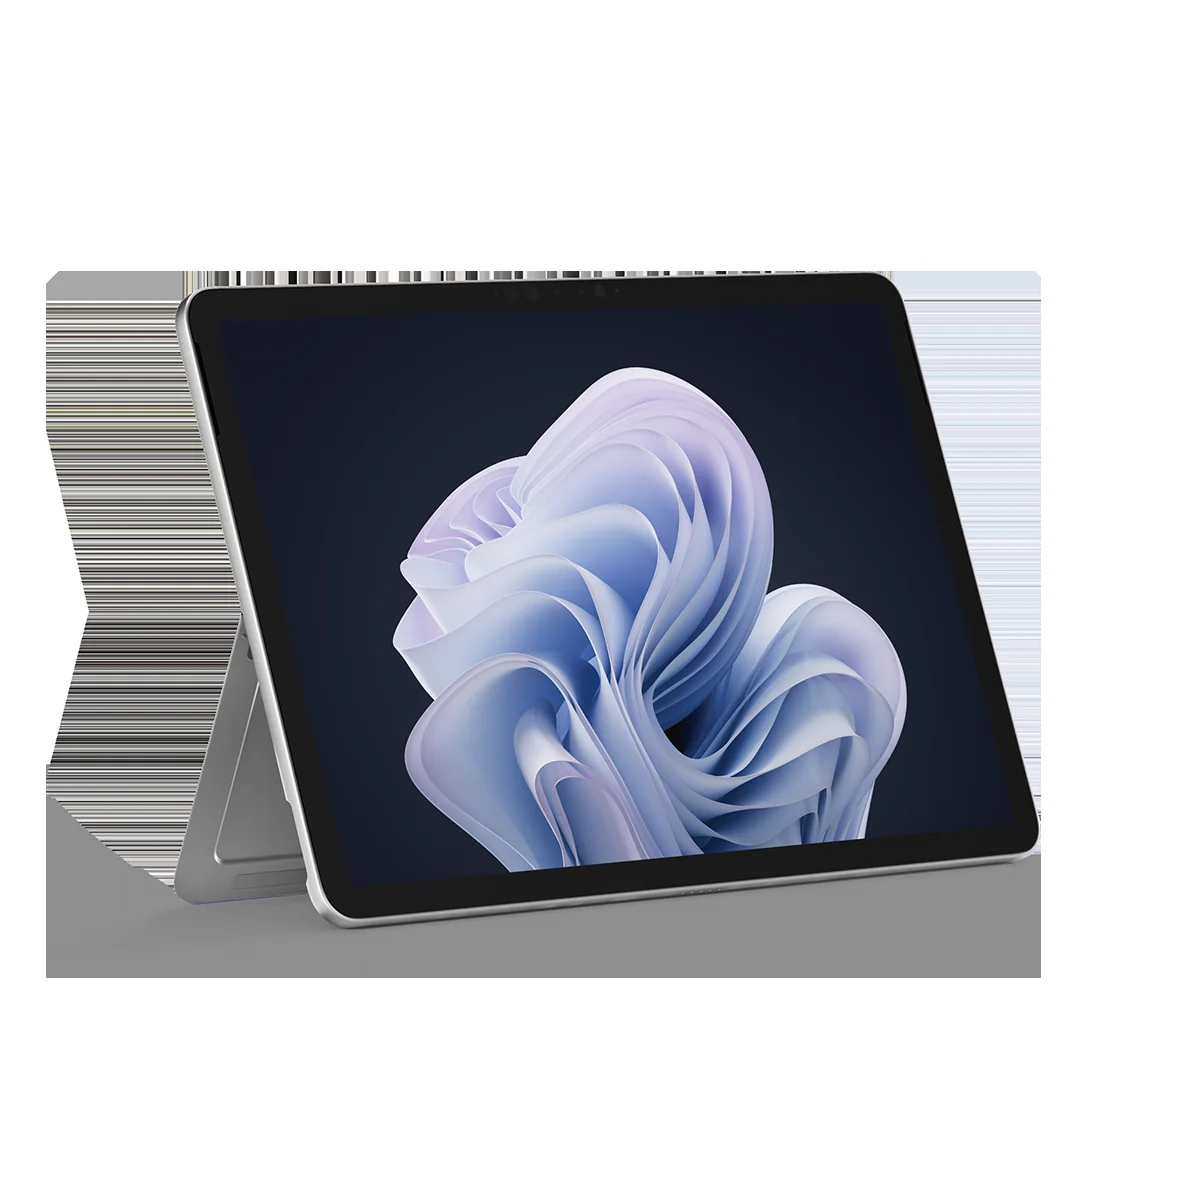
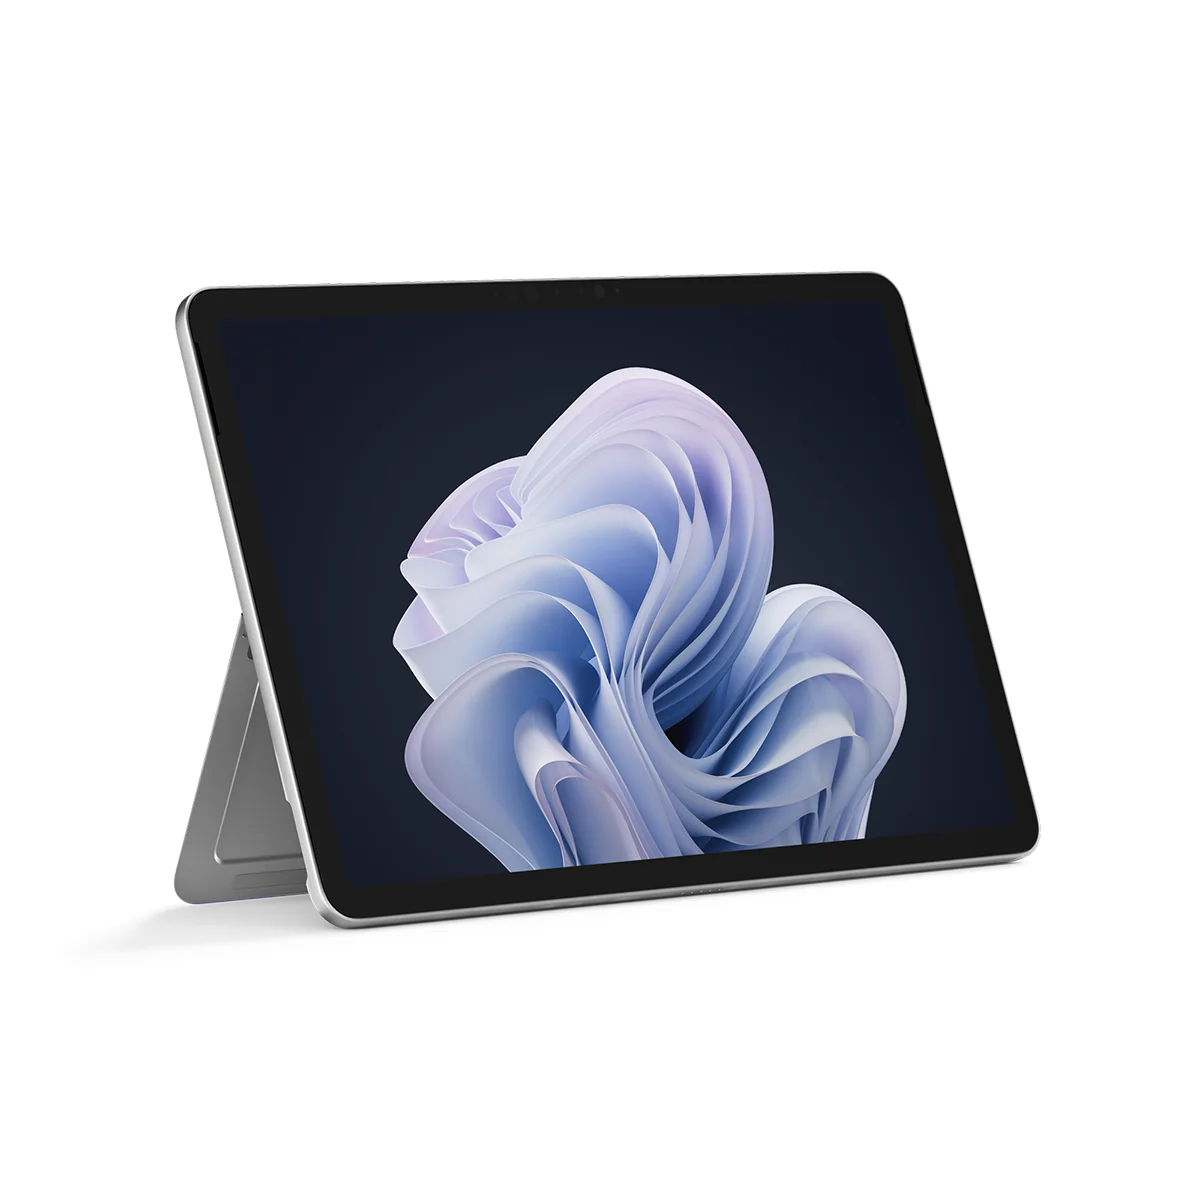
fix: 去掉 12 英寸第 1 代主图上的横纹
官方原图透明区域带了杂色，铺白底时露了出来。按透明通道重新铺平后再发布。

Changed region(s): [[0.0308, 0.2158, 0.8942, 0.8325], [0.74, 0.2158, 0.8942, 0.6475]]

diff --git a/index.html b/index.html
@@ -138,8 +138,8 @@
   <!-- 核心数据源与业务引擎脚本 (严格按依赖顺序加载) -->
   <script src="./js/surface-data.js?v=20260925-pic"></script>
   <script src="./js/verification-status.js"></script>
-  <script src="./js/image-delivery.js?v=20260925-pic"></script>
-  <script src="./js/catalog.js?v=20260925-pic"></script>
+  <script src="./js/image-delivery.js?v=20260925-pic2"></script>
+  <script src="./js/catalog.js?v=20260925-pic2"></script>
   <script src="./js/taxonomy.js?v=20260921x"></script>
   <script src="./js/comparison-engine.js?v=20260925-new"></script>
   <script src="./js/tools-engine.js?v=20260924-ui"></script>

diff --git a/js/catalog.js b/js/catalog.js
@@ -32,7 +32,7 @@ const Catalog = (function () {
   };
 
   const PORTRAIT_REV = '20260923';
-  const DELIVERY_REV = '20260925pic';
+  const DELIVERY_REV = '20260925pic2';
   const PORTRAIT_FALLBACK = './assets/products/surface-new-pro-hero.png';
 
   const IMAGE_SLOTS = {
